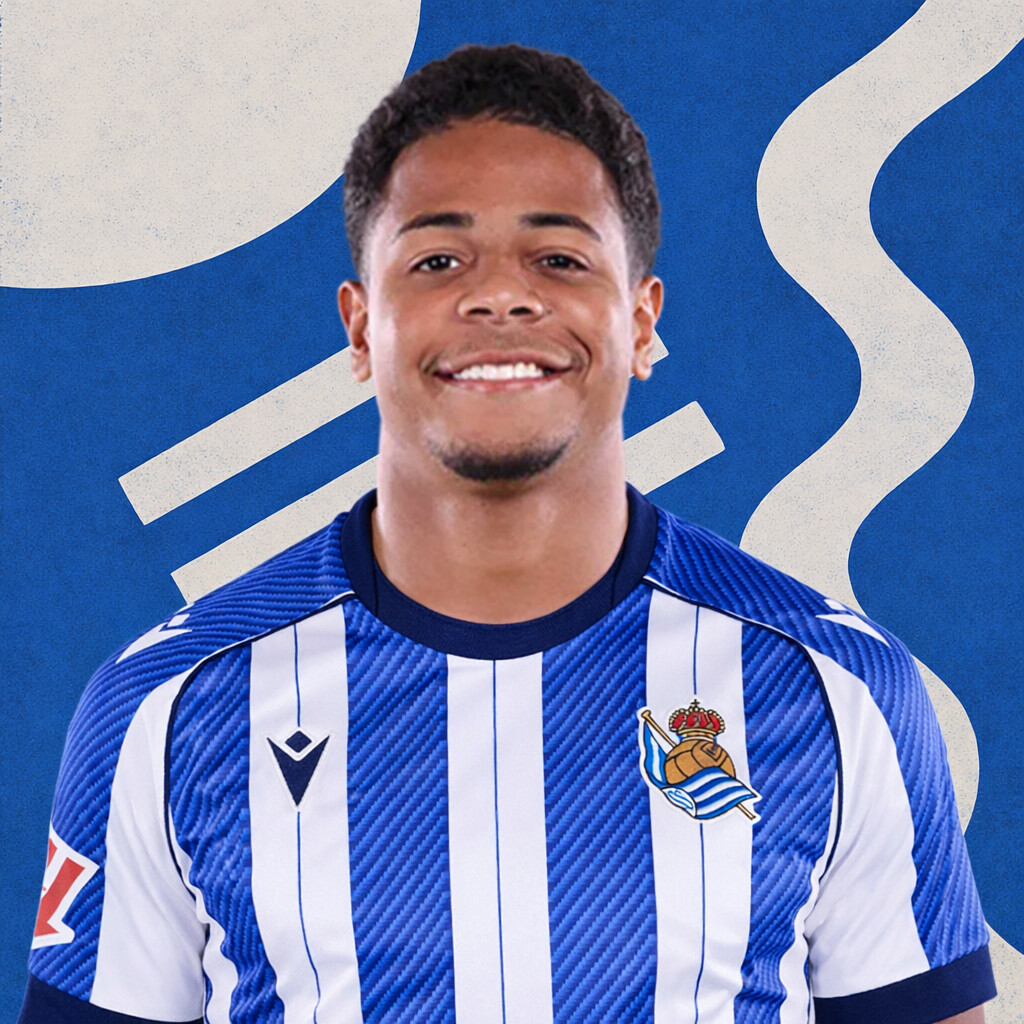
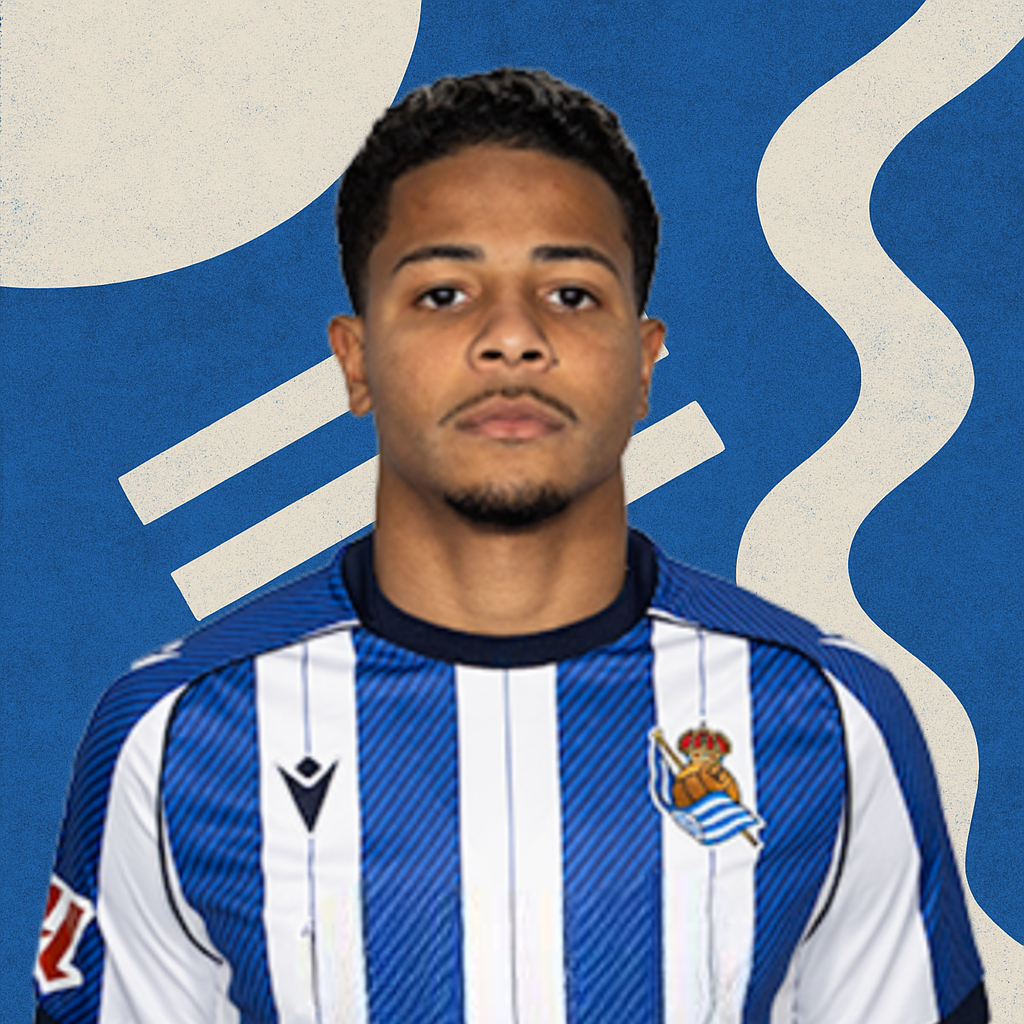
Sidebar mobile

diff --git a/css/common.css b/css/common.css
@@ -83,6 +83,66 @@ body {
   }
 }
 
+/* Mobile: sidebar como desplegable */
+@media (max-width: 700px) {
+  .sidebar {
+    width: 210px;
+    transform: translateX(-100%);
+    transition: transform 0.3s ease;
+    z-index: 999;
+  }
+
+  .sidebar.open {
+    transform: translateX(0);
+  }
+
+  .main-content {
+    margin-left: 0;
+  }
+
+  #toggleSidebar {
+    display: block;
+    position: fixed;
+    top: 10px;
+    left: 10px;
+    z-index: 998;
+    width: 50px;
+    height: 50px;
+    background: var(--accent-color);
+    color: var(--white);
+    border: none;
+    border-radius: 8px;
+    font-size: 1.5em;
+    cursor: pointer;
+    padding: 0;
+  }
+
+  #toggleSidebar:hover {
+    opacity: 0.9;
+  }
+
+  #langBtn {
+    top: 70px;
+    right: 10px;
+  }
+
+  /* Overlay para cerrar sidebar al clickear fuera */
+  .sidebar-overlay {
+    display: none;
+    position: fixed;
+    top: 0;
+    left: 0;
+    width: 100%;
+    height: 100%;
+    background: rgba(0, 0, 0, 0.5);
+    z-index: 998;
+  }
+
+  .sidebar-overlay.open {
+    display: block;
+  }
+}
+
 /* Language button */
 #langBtn {
   background: var(--white);

diff --git a/src/sidebar-mobile.js b/src/sidebar-mobile.js
@@ -1,0 +1,29 @@
+// Control de sidebar en móviles
+document.addEventListener('DOMContentLoaded', function() {
+  const toggleBtn = document.getElementById('toggleSidebar');
+  const sidebar = document.querySelector('.sidebar');
+  const overlay = document.querySelector('.sidebar-overlay');
+
+  if (!toggleBtn || !sidebar || !overlay) return;
+
+  // Toggle sidebar
+  toggleBtn.addEventListener('click', function() {
+    sidebar.classList.toggle('open');
+    overlay.classList.toggle('open');
+  });
+
+  // Cerrar sidebar al clickear en overlay
+  overlay.addEventListener('click', function() {
+    sidebar.classList.remove('open');
+    overlay.classList.remove('open');
+  });
+
+  // Cerrar sidebar al clickear en un link
+  const sidebarLinks = sidebar.querySelectorAll('a');
+  sidebarLinks.forEach(link => {
+    link.addEventListener('click', function() {
+      sidebar.classList.remove('open');
+      overlay.classList.remove('open');
+    });
+  });
+});

diff --git a/merkatuSim.html b/merkatuSim.html
@@ -17,6 +17,8 @@
     <a href="hamaikakoa.html" id="menu-once">Crear once</a>
     <a href="merkatuSim.html" id="menu-merkatu" class="active">Merkatu simulaketa</a>
   </div>
+  <div class="sidebar-overlay"></div>
+  <button id="toggleSidebar" style="display:none;">☰</button>
   <div class="main-content">
     <div style="display:flex; align-items:center; gap:16px; margin: 7px 0 0 32px;">
       <label for="equipoSelect" id="equipoLabel" style="color:#fff; font-weight:bold; font-size:1.1em;">Equipo:</label>
@@ -65,5 +67,6 @@
   </div>
 
   <script src="src/merkatuSim.js"></script>
+  <script src="src/sidebar-mobile.js"></script>
 </body>
 </html>

diff --git a/plantilla.html b/plantilla.html
@@ -17,6 +17,8 @@
     <a href="hamaikakoa.html" id="menu-once">Crear once</a>
     <a href="merkatuSim.html" id="menu-merkatu">Merkatu simulaketa</a>
   </div>
+  <div class="sidebar-overlay"></div>
+  <button id="toggleSidebar" style="display:none;">☰</button>
   <div class="main-content">
     <div style="display:flex; align-items:center; gap:16px; margin: 7px 0 0 32px;">
       <label for="seasonSelect" id="seasonLabel" style="color:#fff; font-weight:bold; font-size:1.1em;">Temporada:</label>
@@ -49,5 +51,6 @@
   </div>
 
   <script src="src/plantilla.js"></script>
+  <script src="src/sidebar-mobile.js"></script>
 </body>
 </html>

diff --git a/hamaikakoa.html b/hamaikakoa.html
@@ -19,6 +19,8 @@
     <a href="hamaikakoa.html" id="menu-once" class="active">Crear once</a>
     <a href="merkatuSim.html" id="menu-merkatu">Merkatu Simulaketa</a>
   </div>
+  <div class="sidebar-overlay"></div>
+  <button id="toggleSidebar" style="display:none;">☰</button>
   <div class="main-content">
     <div style="position:relative;">
       <div id="langSwitch" style="position:absolute; top:18px; right:24px;">
@@ -78,5 +80,6 @@
     </div>
   </div>
   <script src="src/hamaikakoa.js"></script>
+  <script src="src/sidebar-mobile.js"></script>
 
 </html>
